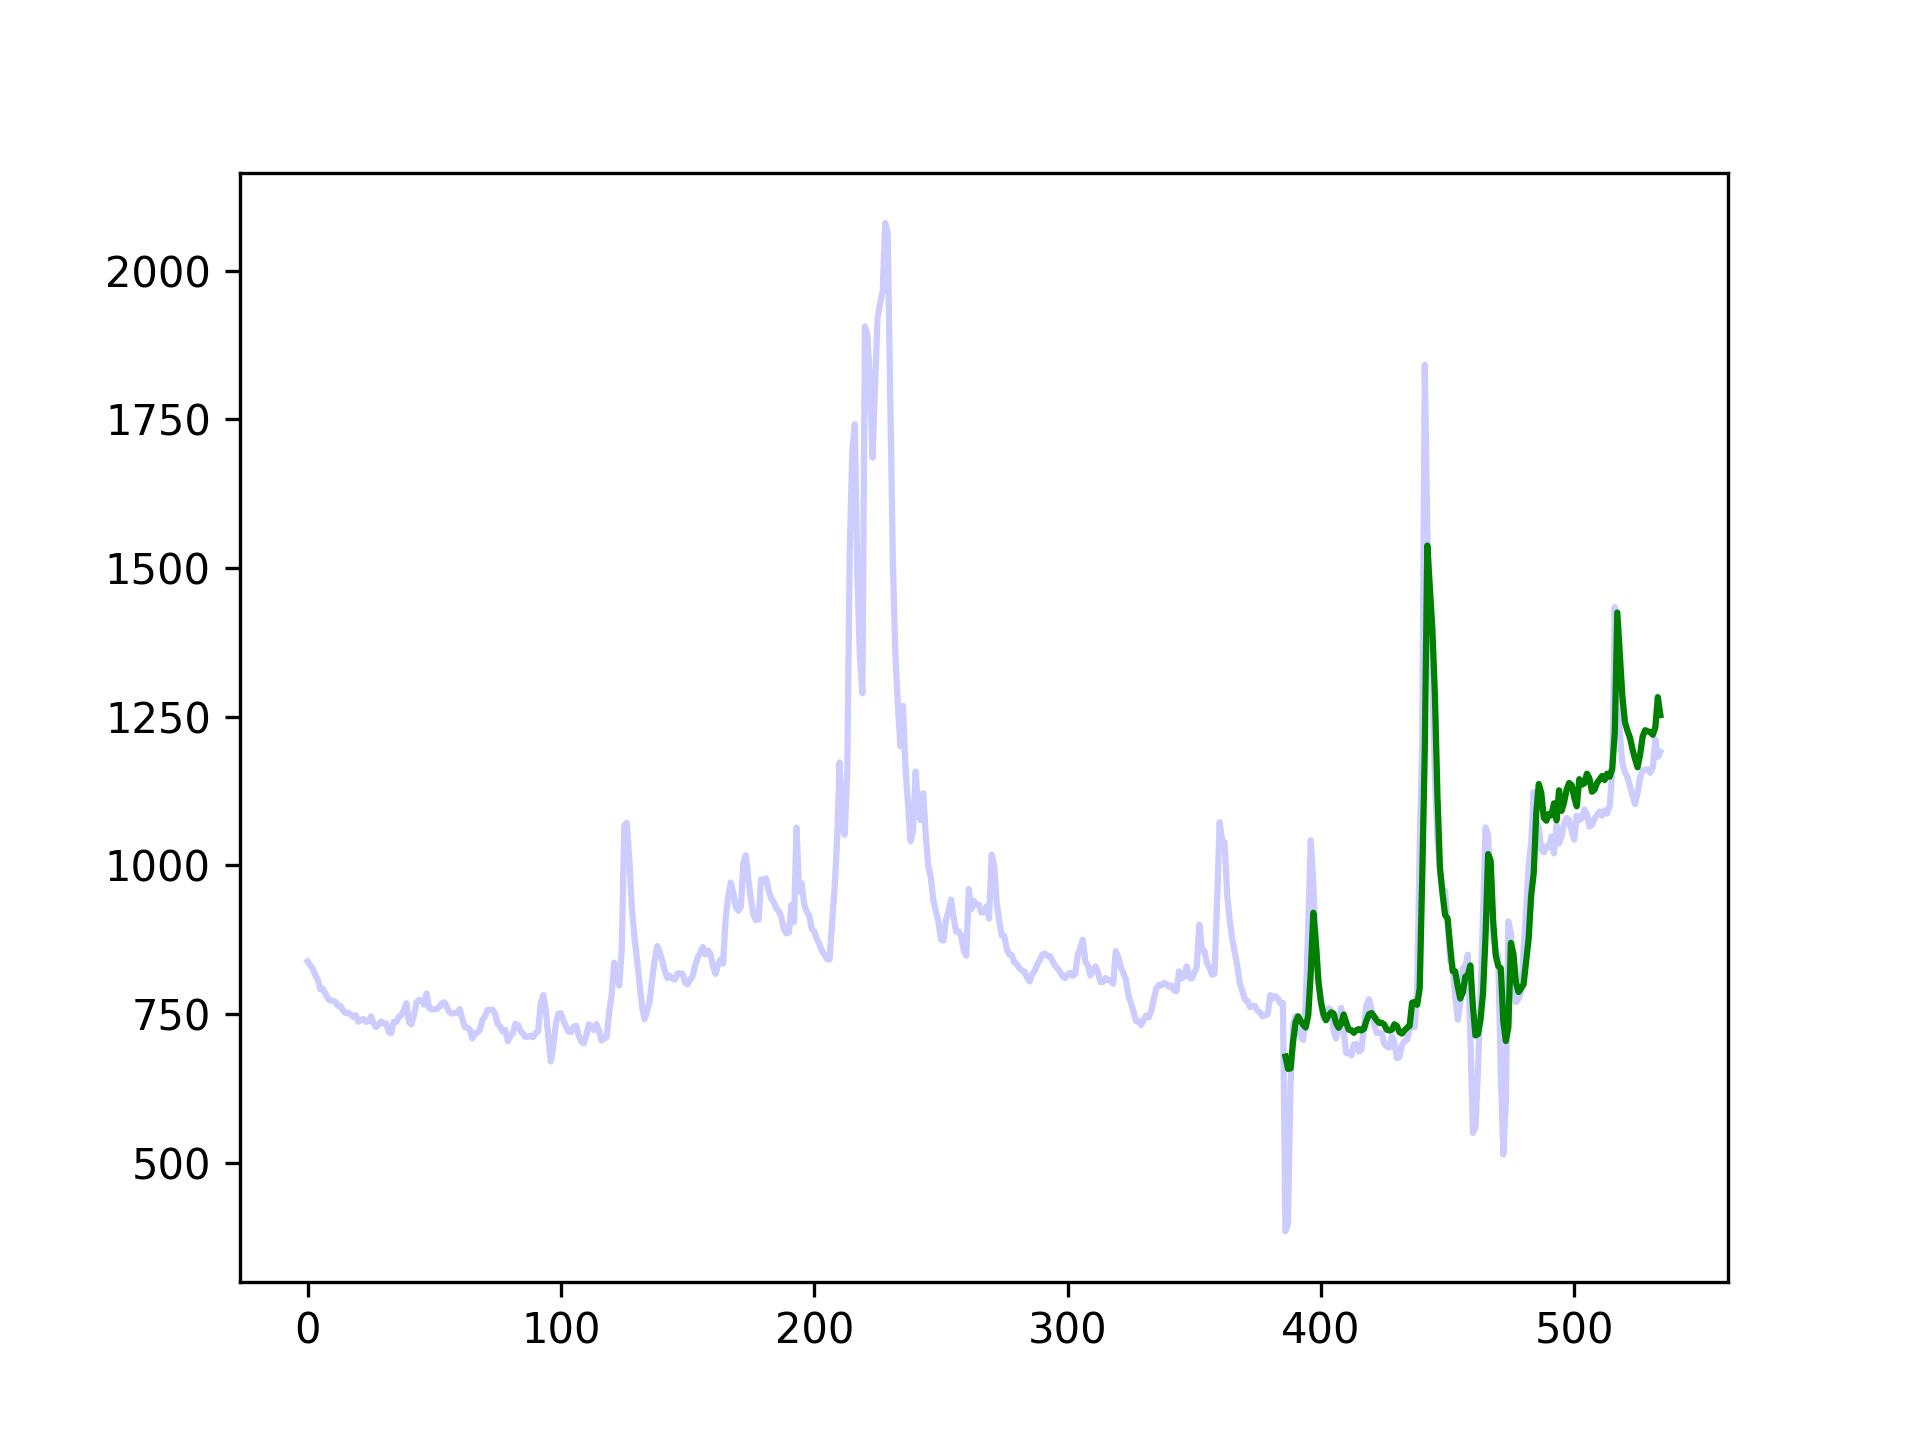
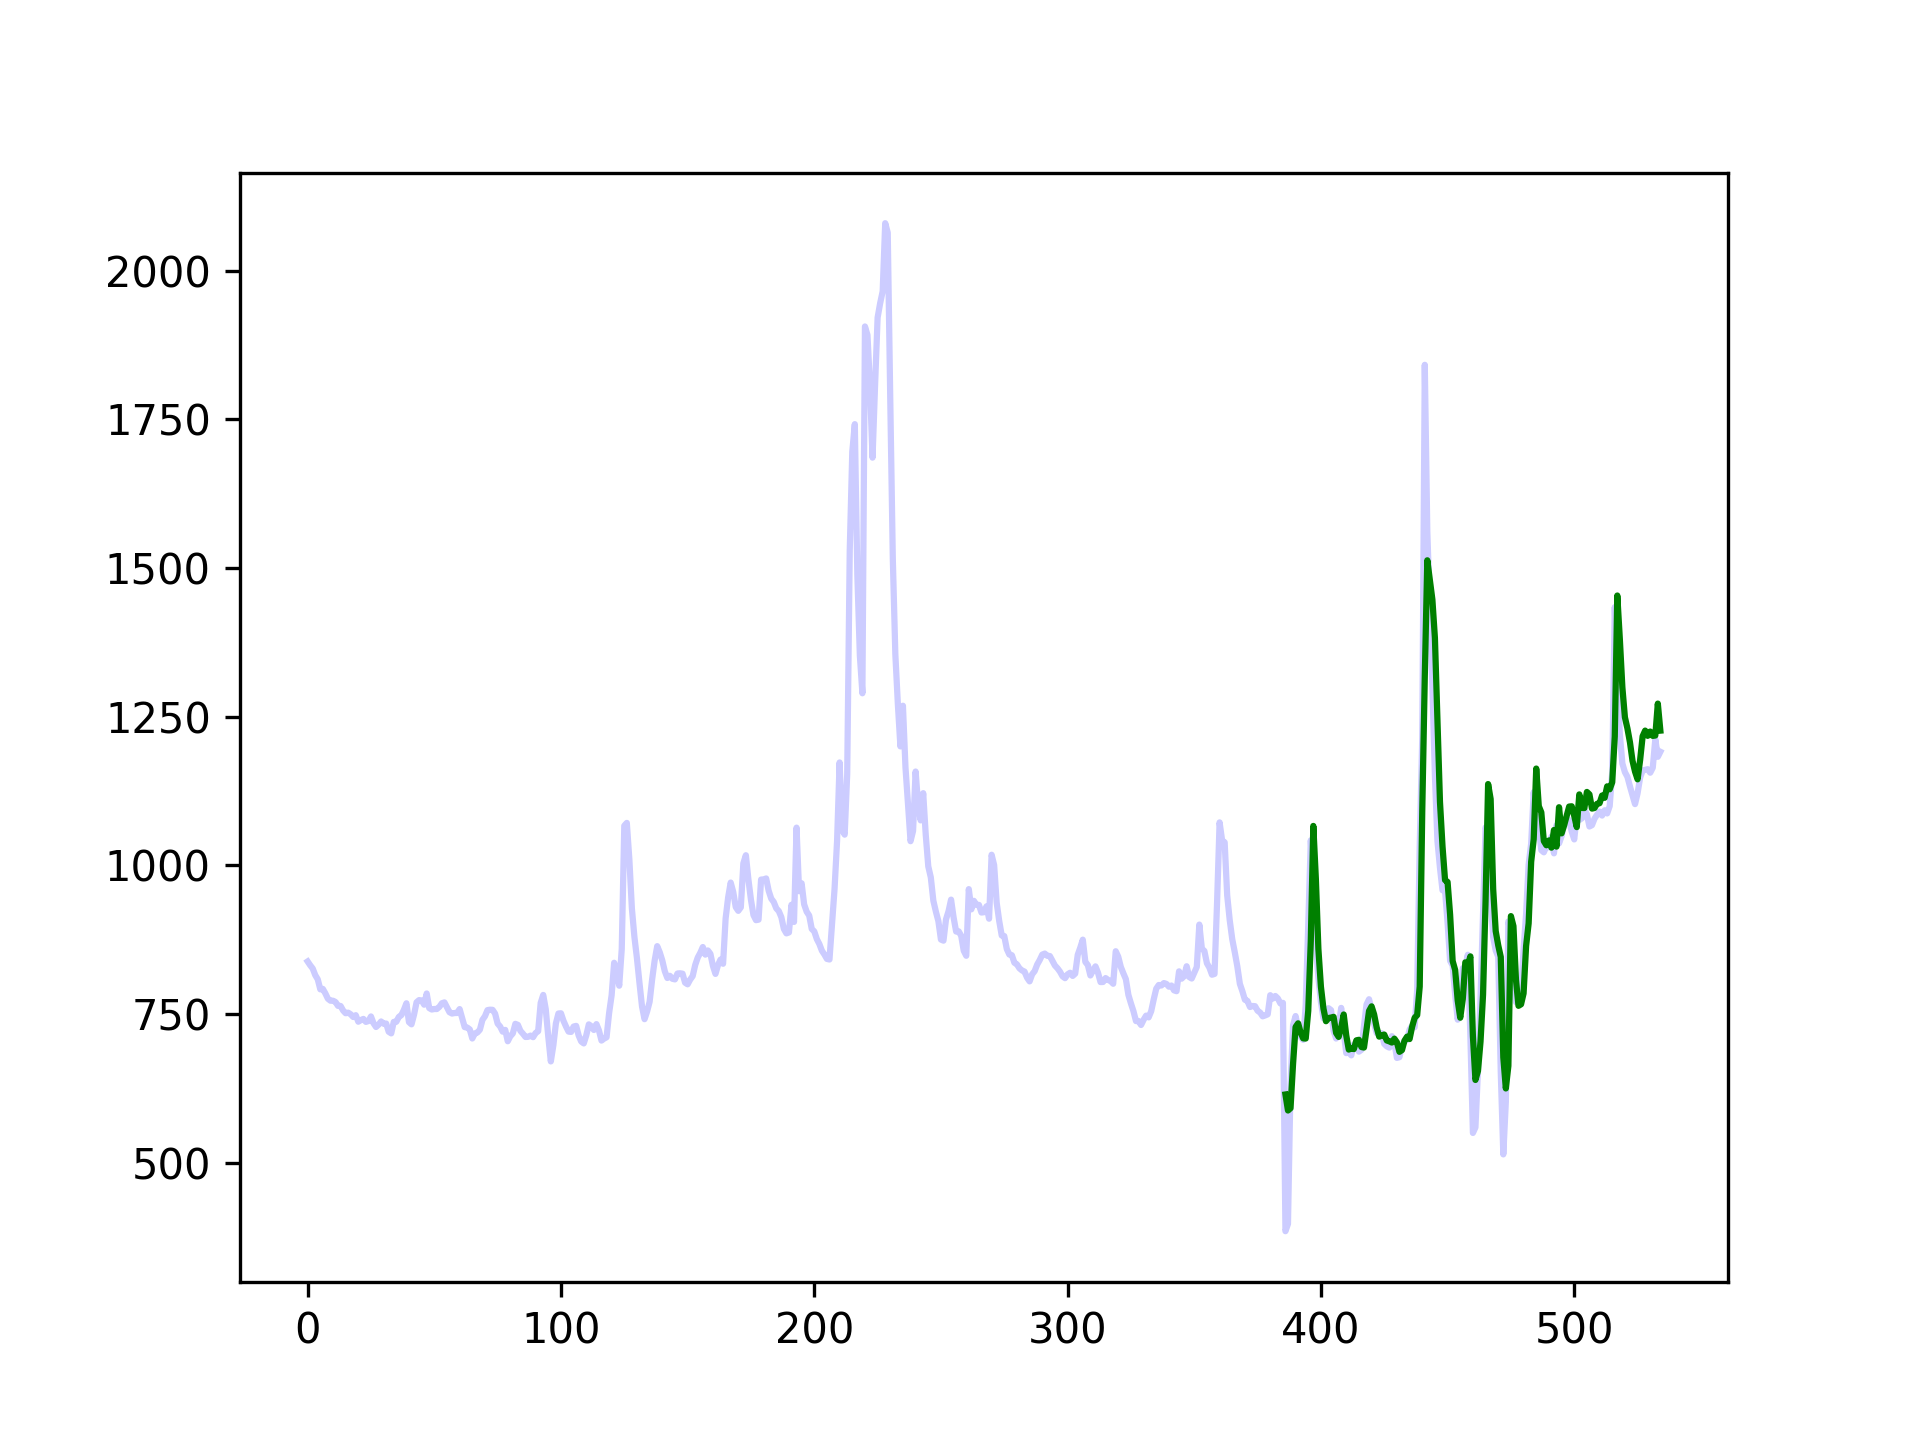
Final commit before presentation

Changed region(s): [[0.6562, 0.4375, 0.8438, 0.7812], [0.6562, 0.5938, 0.6875, 0.6562], [0.8438, 0.5, 0.875, 0.5312]]

diff --git a/test.py b/test.py
@@ -1,4 +1,4 @@
-from hyperparameters import batch_size
+from hyperparameters import *
 import torch
 from Dataset.data import test_data_tensor, scaler, y_test_data, y_train_data
 from torch.utils.data import DataLoader
@@ -6,24 +6,30 @@ import torch.nn as nn
 import numpy as np
 import matplotlib.pyplot as plt
 
-model = torch.load('model.pth')
+# Load trained model
+model = torch.load("optmodel.pth")
+#model = torch.load('model.pth')
 model.eval()
 
+# Device
 device = torch.device("cuda" if torch.cuda.is_available() else "cpu")
 model.to(device)
 
+# Load testing data into DataLoader
 test_loader = DataLoader(test_data_tensor, batch_size=batch_size)
 
+# Set up loss
 criterion = nn.MSELoss()
+
 losses = []
 predictions = []
 actuals = []
 
+# Generate predictions
 with torch.no_grad():
     for i, (src, tgt) in enumerate(test_loader):
 
         src = src.to(torch.float32).to(device)
-        #src = src.permute(1, 0, 2)
         tgt = tgt.to(torch.float32).to(device)
         tgt_batch = model(src)
         
@@ -31,23 +37,42 @@ with torch.no_grad():
         predictions.extend(tgt_batch.squeeze().tolist())
         losses.append(criterion(tgt_batch, tgt))
 
-inverse_y_train_data = scaler.inverse_transform(np.array(y_train_data).reshape(-1,1))
-inverse_predictions = scaler.inverse_transform(np.array(predictions).reshape(-1,1))
-inverse_y_test_data = scaler.inverse_transform(np.array(y_test_data).reshape(-1,1))
-#actuals = scaler.inverse_transform(np.array(actuals).reshape(-1,1))
-inverse_y_train_data = inverse_y_train_data.flatten().tolist()
-inverse_y_test_data = inverse_y_test_data.flatten().tolist()
-inverse_predictions = inverse_predictions.flatten().tolist()
-yrange1 = inverse_y_train_data + inverse_y_test_data
-yrange2 = inverse_predictions
-xrange = list(range(len(yrange1)))
-shifted_xrange = range(len(xrange) - len(inverse_predictions), len(xrange))
-plt.plot(xrange, yrange1, color="b", alpha=0.2)
-plt.plot(shifted_xrange, yrange2, color="g")
-plt.savefig("./output.png", dpi=300)
+# Using scaler, map actuals, predictions into unscaled domain
+inverse_y_train_data = scaler.inverse_transform(np.array(y_train_data).reshape(-1,1)).flatten().tolist()
+inverse_predictions = scaler.inverse_transform(np.array(predictions).reshape(-1,1)).flatten().tolist()
+inverse_y_test_data = scaler.inverse_transform(np.array(y_test_data).reshape(-1,1)).flatten().tolist()
 
-print("Predictions: ", scaler.inverse_transform(np.array(predictions).reshape(-1,1)))
-print("Losses: ", losses)
-rmse = np.sqrt(np.mean((scaler.inverse_transform(np.array(predictions).reshape(-1, 1)) - scaler.inverse_transform(y_test_data.numpy().reshape(-1, 1)))**2))
-normalized_rmse = rmse / (torch.max(y_test_data) - torch.min(y_test_data))
-print(f"Score (RMSE): {normalized_rmse:.4f}")
+plot = False
+if plot:
+    yrange1 = inverse_y_train_data + inverse_y_test_data
+    yrange2 = inverse_predictions
+    xrange = list(range(len(yrange1)))
+
+    shifted_xrange = range(len(xrange) - len(inverse_predictions), len(xrange))
+    plt.plot(xrange, yrange1, color="b", alpha=0.2)
+    plt.plot(shifted_xrange, yrange2, color="g")
+    plt.savefig("./output.png", dpi=300)
+
+# Nash-Sutcliffe Efficiency
+def NSE(simulated, observed):
+
+    num = torch.sum((observed - simulated)**2)
+    den = torch.sum((observed - torch.mean(observed))**2)
+    
+    return 1 - (num / den)
+
+# Normalized Root-Mean-Squared Efficiency
+def NRMSE(simulated, observed):
+
+    rmse = torch.sqrt(torch.mean((simulated - observed)**2))
+    div = torch.mean(observed)
+
+    return rmse / div
+
+ipred_tensor = torch.tensor(inverse_predictions)
+iytest_tensor = torch.tensor(inverse_y_test_data)
+
+nse = NSE(ipred_tensor, iytest_tensor).item()
+nrmse = NRMSE(ipred_tensor, iytest_tensor).item()
+print("NSE   = ", round(nse, 3))
+print("NRMSE = ", round(nrmse, 3))

diff --git a/timeseries_transformer.py b/timeseries_transformer.py
@@ -36,10 +36,12 @@ class TimeSeriesTransformer(nn.Module):
 
         self.encoder = nn.TransformerEncoder(
             encoder_layer=encoder_layer,
-            num_layers=n_layers_enc
+            num_layers=n_layers_enc,
+            enable_nested_tensor=False
         )
 
         # Decoding pipeline
+
         """
         self.decoder_input_layer = nn.Linear(n_predicted_feats, d_model)
         
@@ -55,6 +57,7 @@ class TimeSeriesTransformer(nn.Module):
             num_layers=n_layers_dec
         )
         """
+
         self.linear_mapping = nn.Linear(d_model, n_predicted_feats)
 
     def encode(self, src):
@@ -69,6 +72,7 @@ class TimeSeriesTransformer(nn.Module):
     def decode(self, tgt):# src, tgt_mask, src_mask):
 
         # Decoding application
+
         """
         tgt = self.decoder_input_layer(tgt)
         tgt = tgt.unsqueeze(0)
@@ -77,11 +81,12 @@ class TimeSeriesTransformer(nn.Module):
                            tgt_mask=tgt_mask,
                            memory_mask=src_mask)
         """
+
         tgt = self.linear_mapping(tgt)
 
         return tgt
 
-    def forward(self, src):#, tgt, src_mask=None, tgt_mask=None):
+    def forward(self, src):
         
         src = self.encode(src)
         #tgt = self.decode(tgt, src, tgt_mask, src_mask)

diff --git a/train.py b/train.py
@@ -51,17 +51,11 @@ for epoch in range(epochs):
         #src = src.permute(1, 0, 2)
         tgt = tgt.to(torch.float32).to(device)
 
-        # Generate masks if masking = True
-        if masking:
-
-            src_mask = nn.Transformer.generate_square_subsequent_mask(sz=len(src))
-            tgt_mask = nn.Transformer.generate_square_subsequent_mask(sz=1)
-
         # Reset gradients
         optimizer.zero_grad()
 
         # Generate targets to run loss on
-        tst_output = model(src) if (not masking) else model(src, tgt, src_mask, tgt_mask) 
+        tst_output = model(src)
 
         # Calculate loss, backpropagate, and add to running loss
         # Loss is calculated specifically on discharge, not on the other features

diff --git a/hyperparameters.py b/hyperparameters.py
@@ -1,14 +1,13 @@
 # Hyperparameters
-batch_size        = 50 #35
+batch_size        = 48
 n_input_feats     = 1
-d_model           = 64 #64
+d_model           = 32
 n_heads           = 8
 n_predicted_feats = 1
 n_layers_enc      = 2
 n_layers_dec      = 2
-d_feedforward_enc = 128 #128
-d_feedforward_dec = 128 #128
-dropout_pos_enc   = 0.1
-dropout_enc       = 0.1
-dropout_dec       = 0.1
-masking           = False
+d_feedforward_enc = 128
+d_feedforward_dec = 128
+dropout_pos_enc   = 0.001
+dropout_enc       = 0.001
+dropout_dec       = 0.001

diff --git a/Dataset/data.py b/Dataset/data.py
@@ -4,7 +4,7 @@ import torch
 from torch.utils.data import TensorDataset
 from sklearn.preprocessing import StandardScaler
 
-filepath = '~/Desktop/TST/Dataset/MissouriUpstream.nc'
+filepath = './Dataset/MissouriUpstream.nc'
 
 with xr.open_dataset(filepath, group='Reach_Timeseries') as ds:
 

diff --git a/exec.py b/exec.py
@@ -1,0 +1,12 @@
+import subprocess
+import os
+
+for i in range(100):
+
+    subprocess.run(['/usr/bin/python3', 'train.py'])
+    subprocess.run(['/usr/bin/python3', 'test.py'])
+
+    os.system("clear")
+    print(f"Progress: {(i + 1)}%")
+
+print("Finished")
